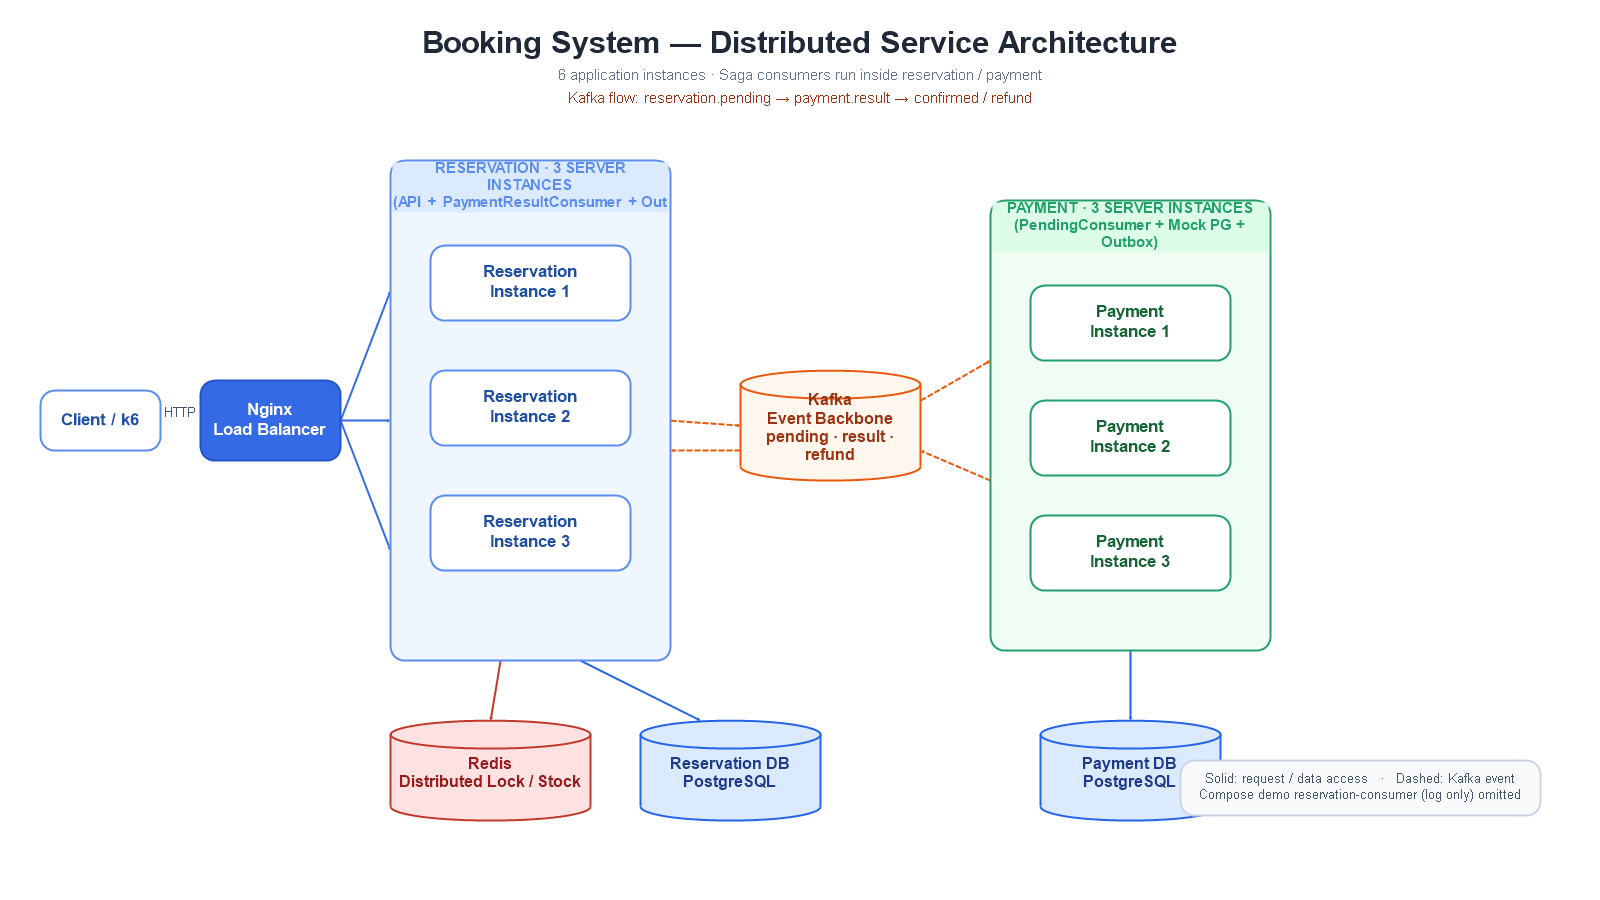
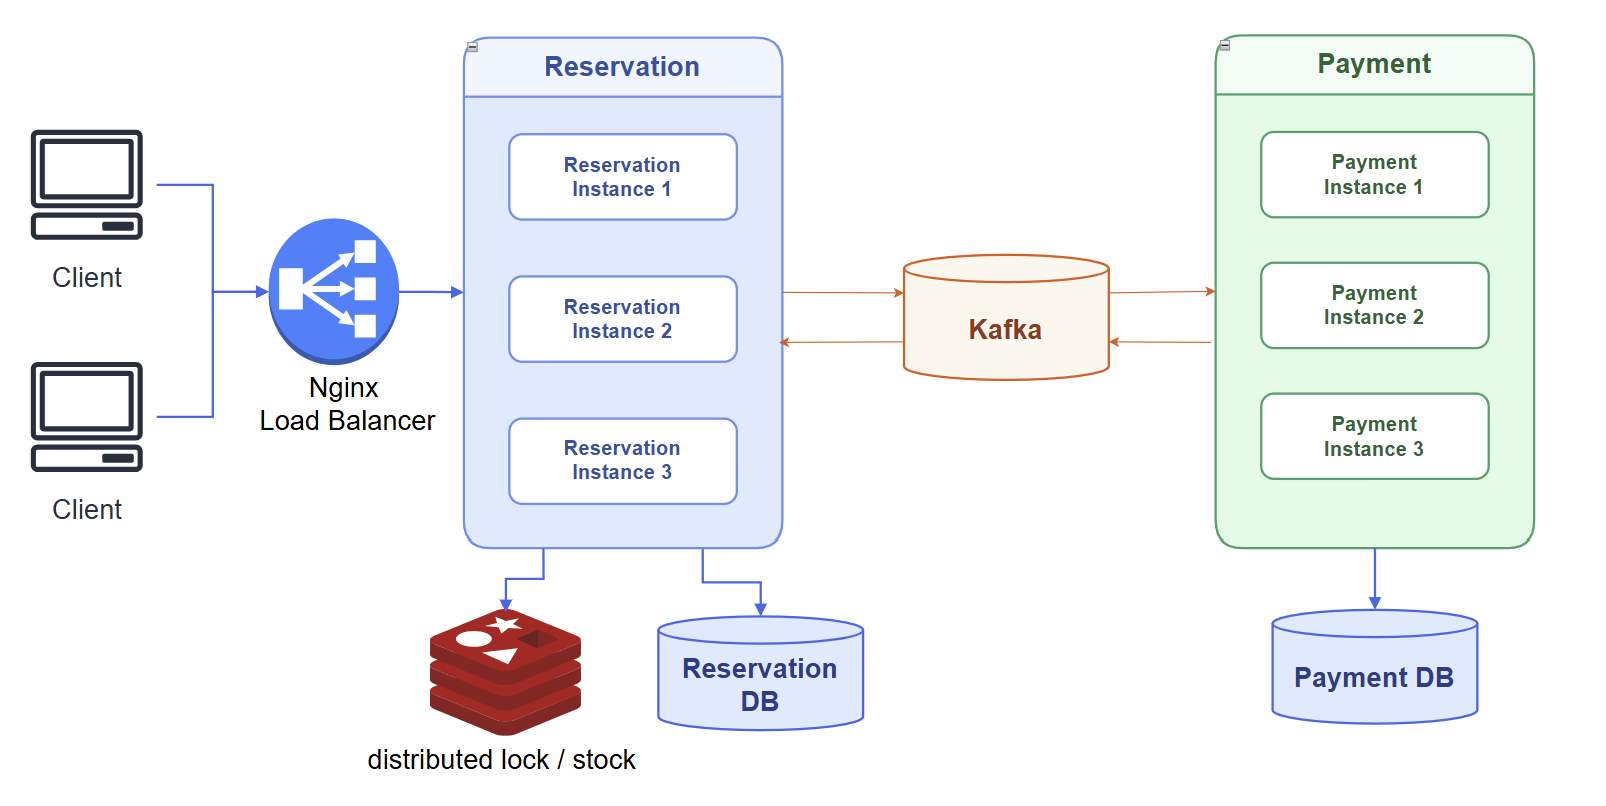
docs(docs): 분산 아키텍처 다이어그램을 최신 구조도로 교체
Reservation·Payment 분리와 Outbox·Kafka Saga가 드러나는 현재 뷰로 PNG를 갱신하고 AGENT 링크를 맞춤.

diff --git a/AGENT.md b/AGENT.md
@@ -52,7 +52,7 @@ Client / k6
          Kafka ──▶ reservation-consumer (reservation.confirmed 로그 데모)
 ```
 
-현재 구조 다이어그램: [`README.md`](README.md) (standard + Saga mermaid).  
+현재 구조 다이어그램: [`docs/distributed-architecture.png`](docs/distributed-architecture.png)  
 구 scale-out 인프라 뷰(payment 미반영): [`docs/architecture.png`](docs/architecture.png)  
 Saga 설계: [`docs/superpowers/specs/2026-07-08-payment-saga-msa-design.md`](docs/superpowers/specs/2026-07-08-payment-saga-msa-design.md)
 